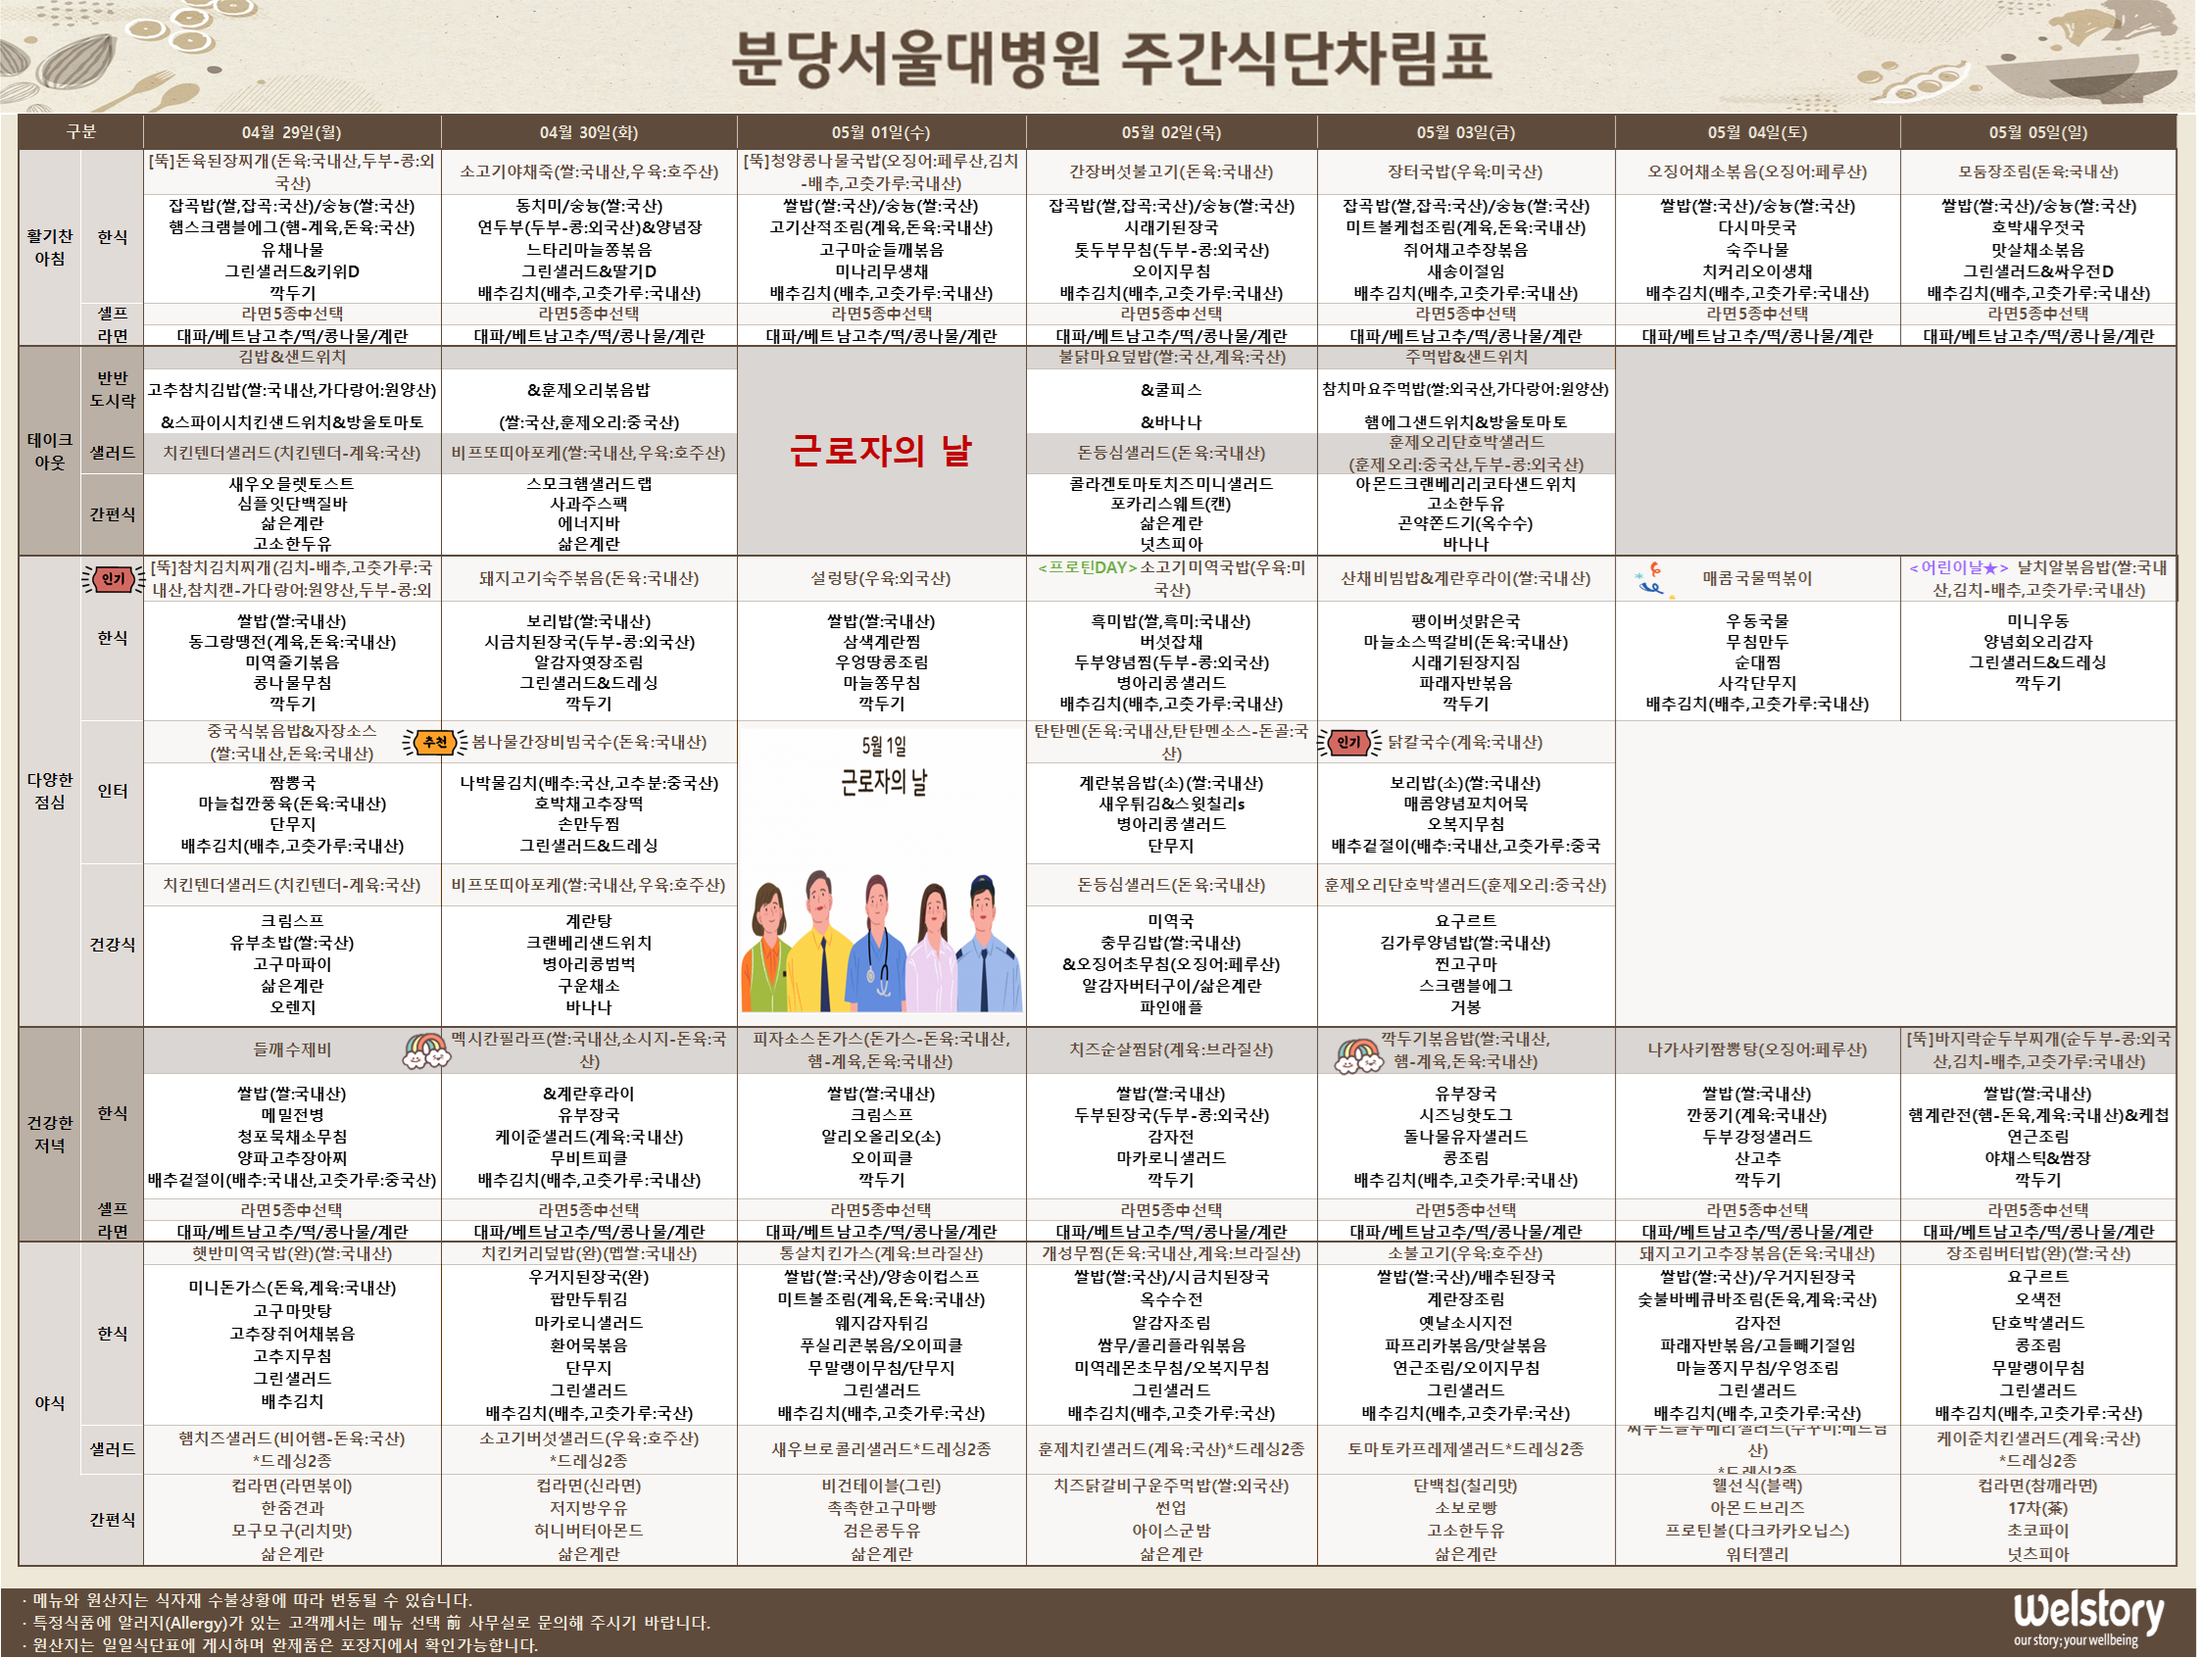
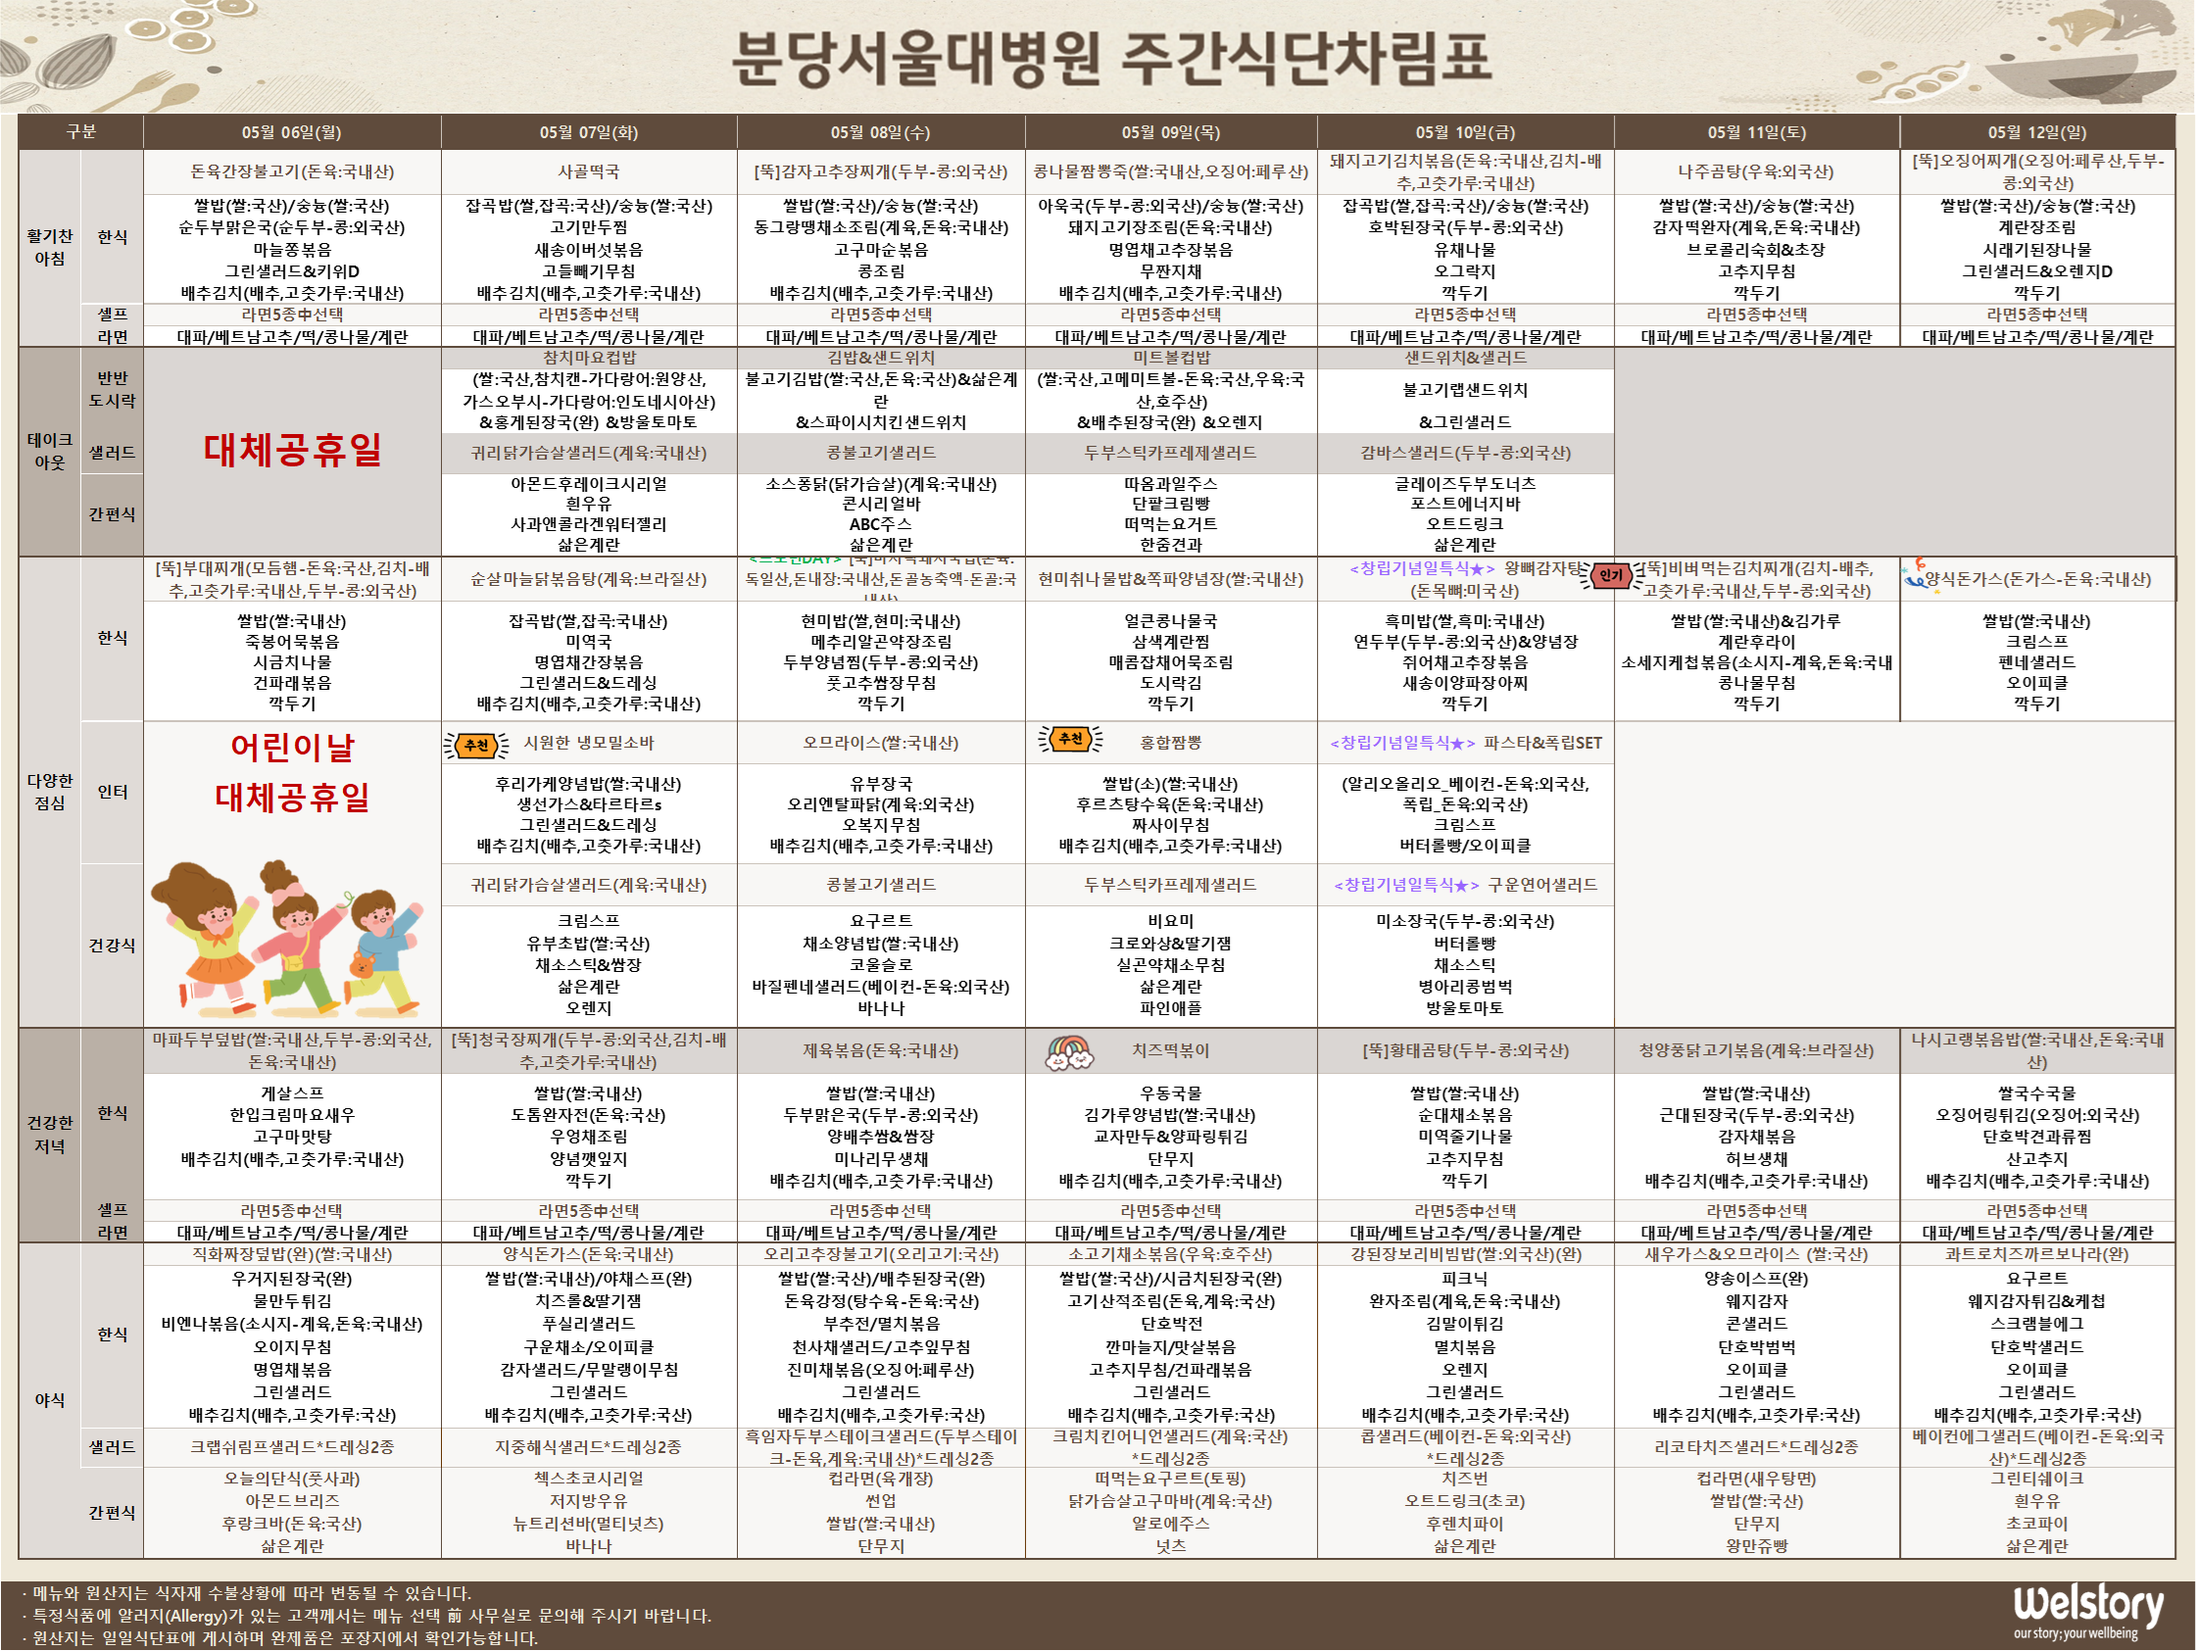
Add files via upload

diff --git a/1/index.html b/1/index.html
@@ -13,14 +13,14 @@
 
 
 <br>
-<h1> 5월 1주차  </h1>
+<h1> 5월 2주차  </h1>
 <img src="1동.png" width="100%">
 <br>
 
 
 
 
-<h6> Last update 2024/04/30  </h6>  
+<h6> Last update 2024/05/09  </h6>  
 <h1 >맛있게 드세요.  </h1> 
 
 </body>

diff --git a/2/index.html b/2/index.html
@@ -13,13 +13,13 @@
 
 
 <br>
-<h1> 5월 1주차  </h1>
+<h1> 5월 2주차  </h1>
 <img src="HIP.png" width="100%">
 <br>
 
 
 
-<h6> Last update 2024/04/30  </h6>  
+<h6> Last update 2024/05/09  </h6>  
 <h1 >맛있게 드세요.  </h1> 
 
 </body>

diff --git a/6/index.html b/6/index.html
@@ -18,7 +18,7 @@
 
 
 
-<h6> Last update 2024/04/30  </h6>  
+<h6> Last update 2024/05/09  </h6>  
 <h1 >맛있게 드세요.  </h1> 
 
 </body>
